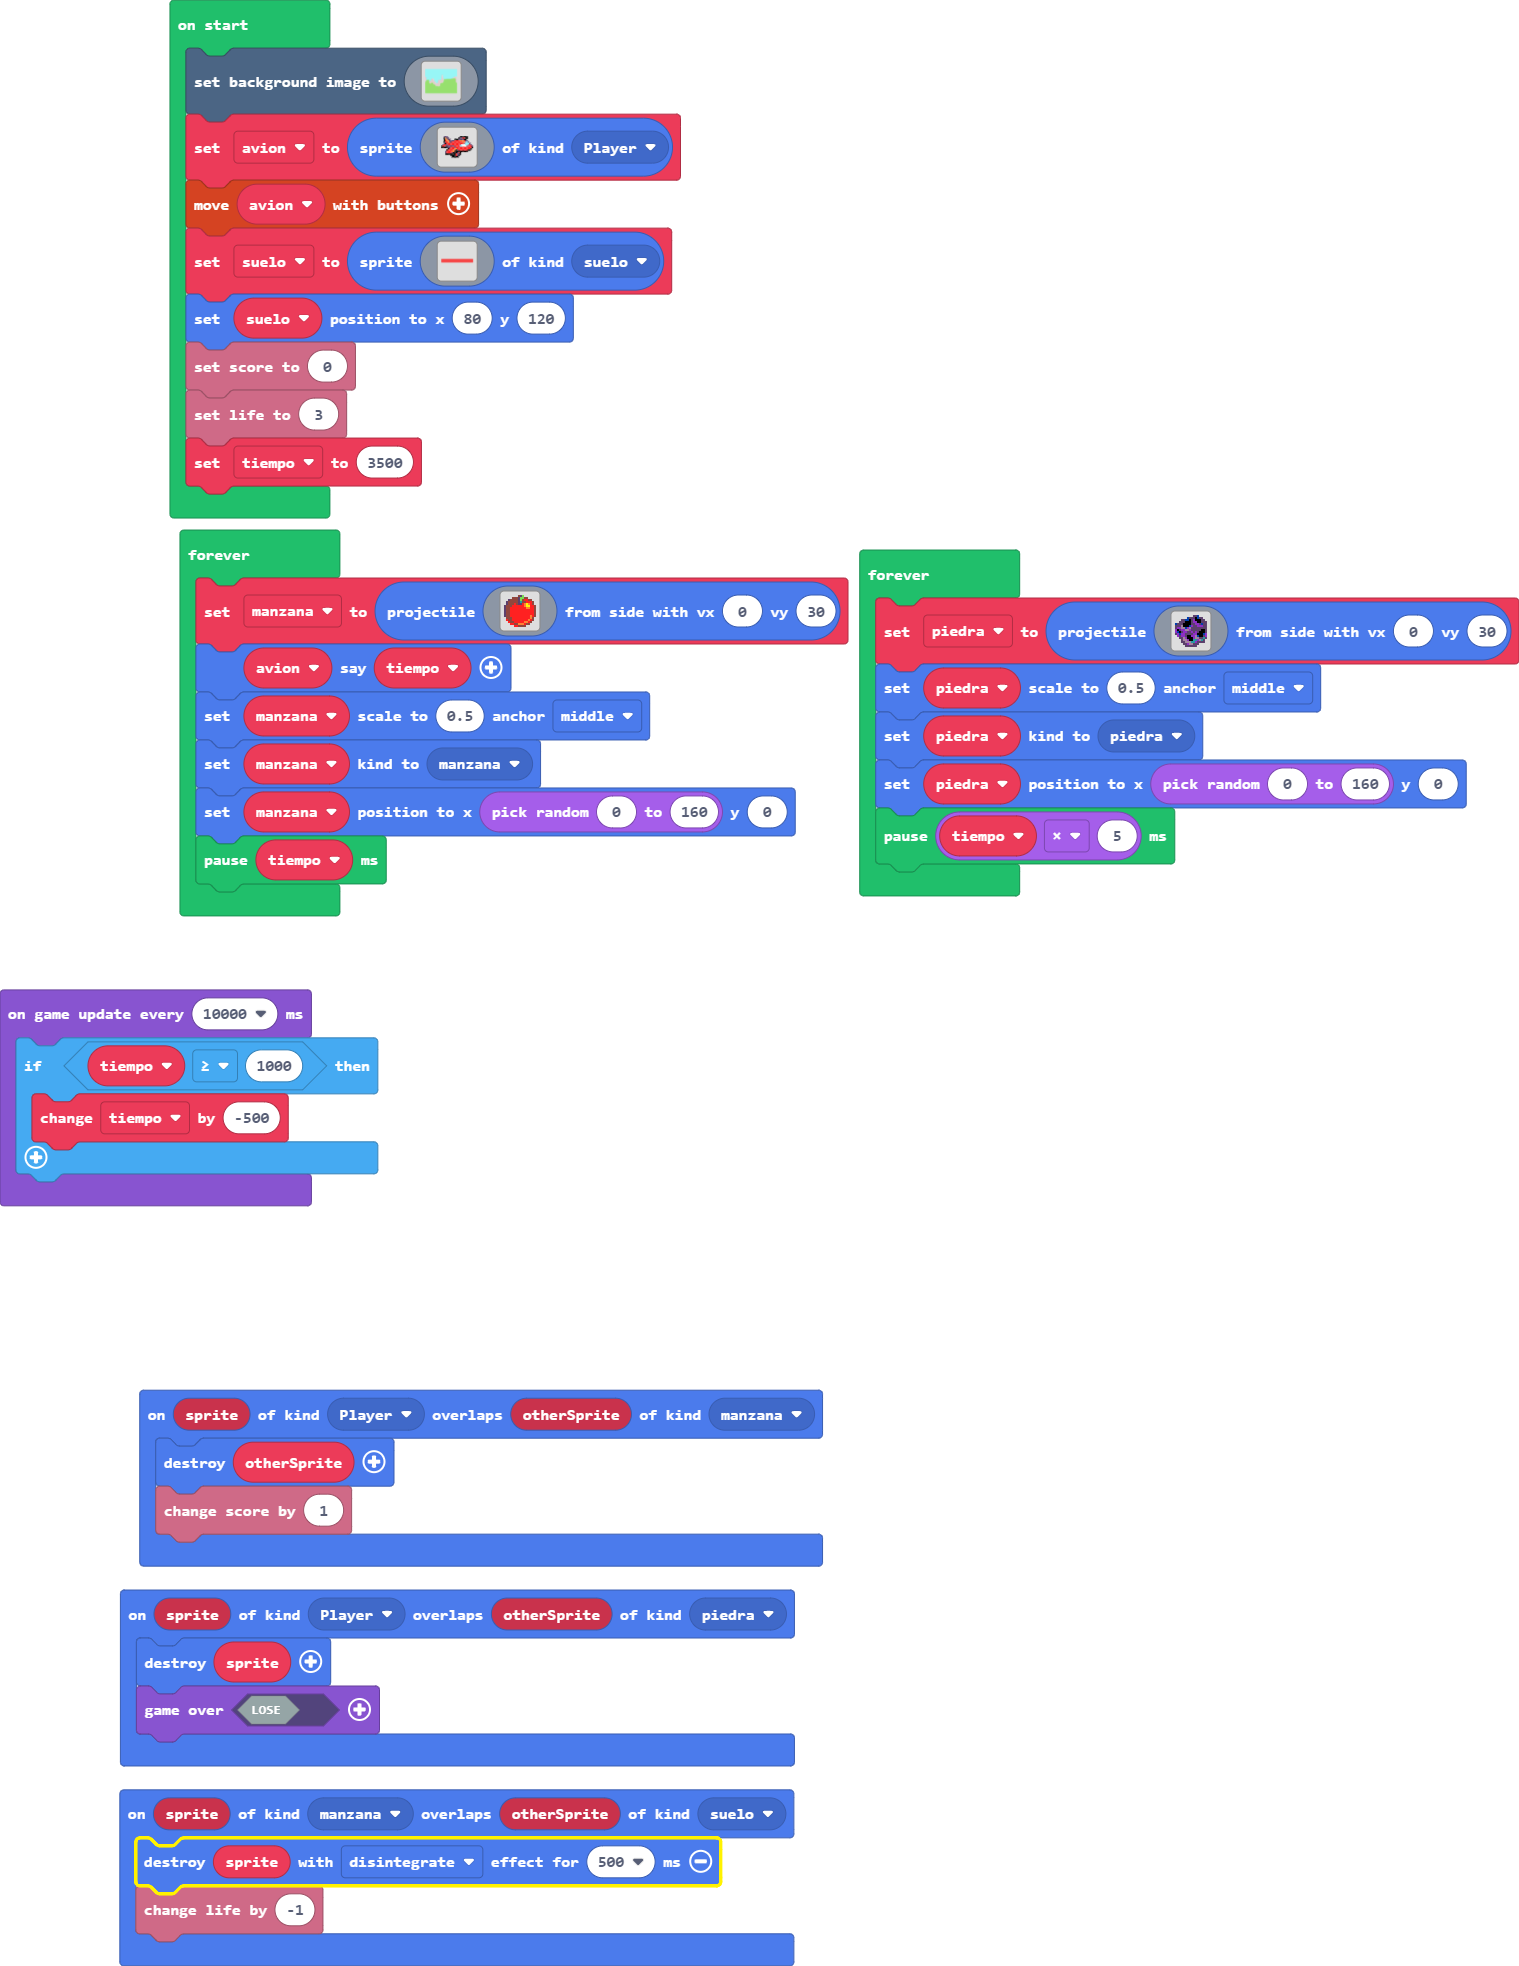
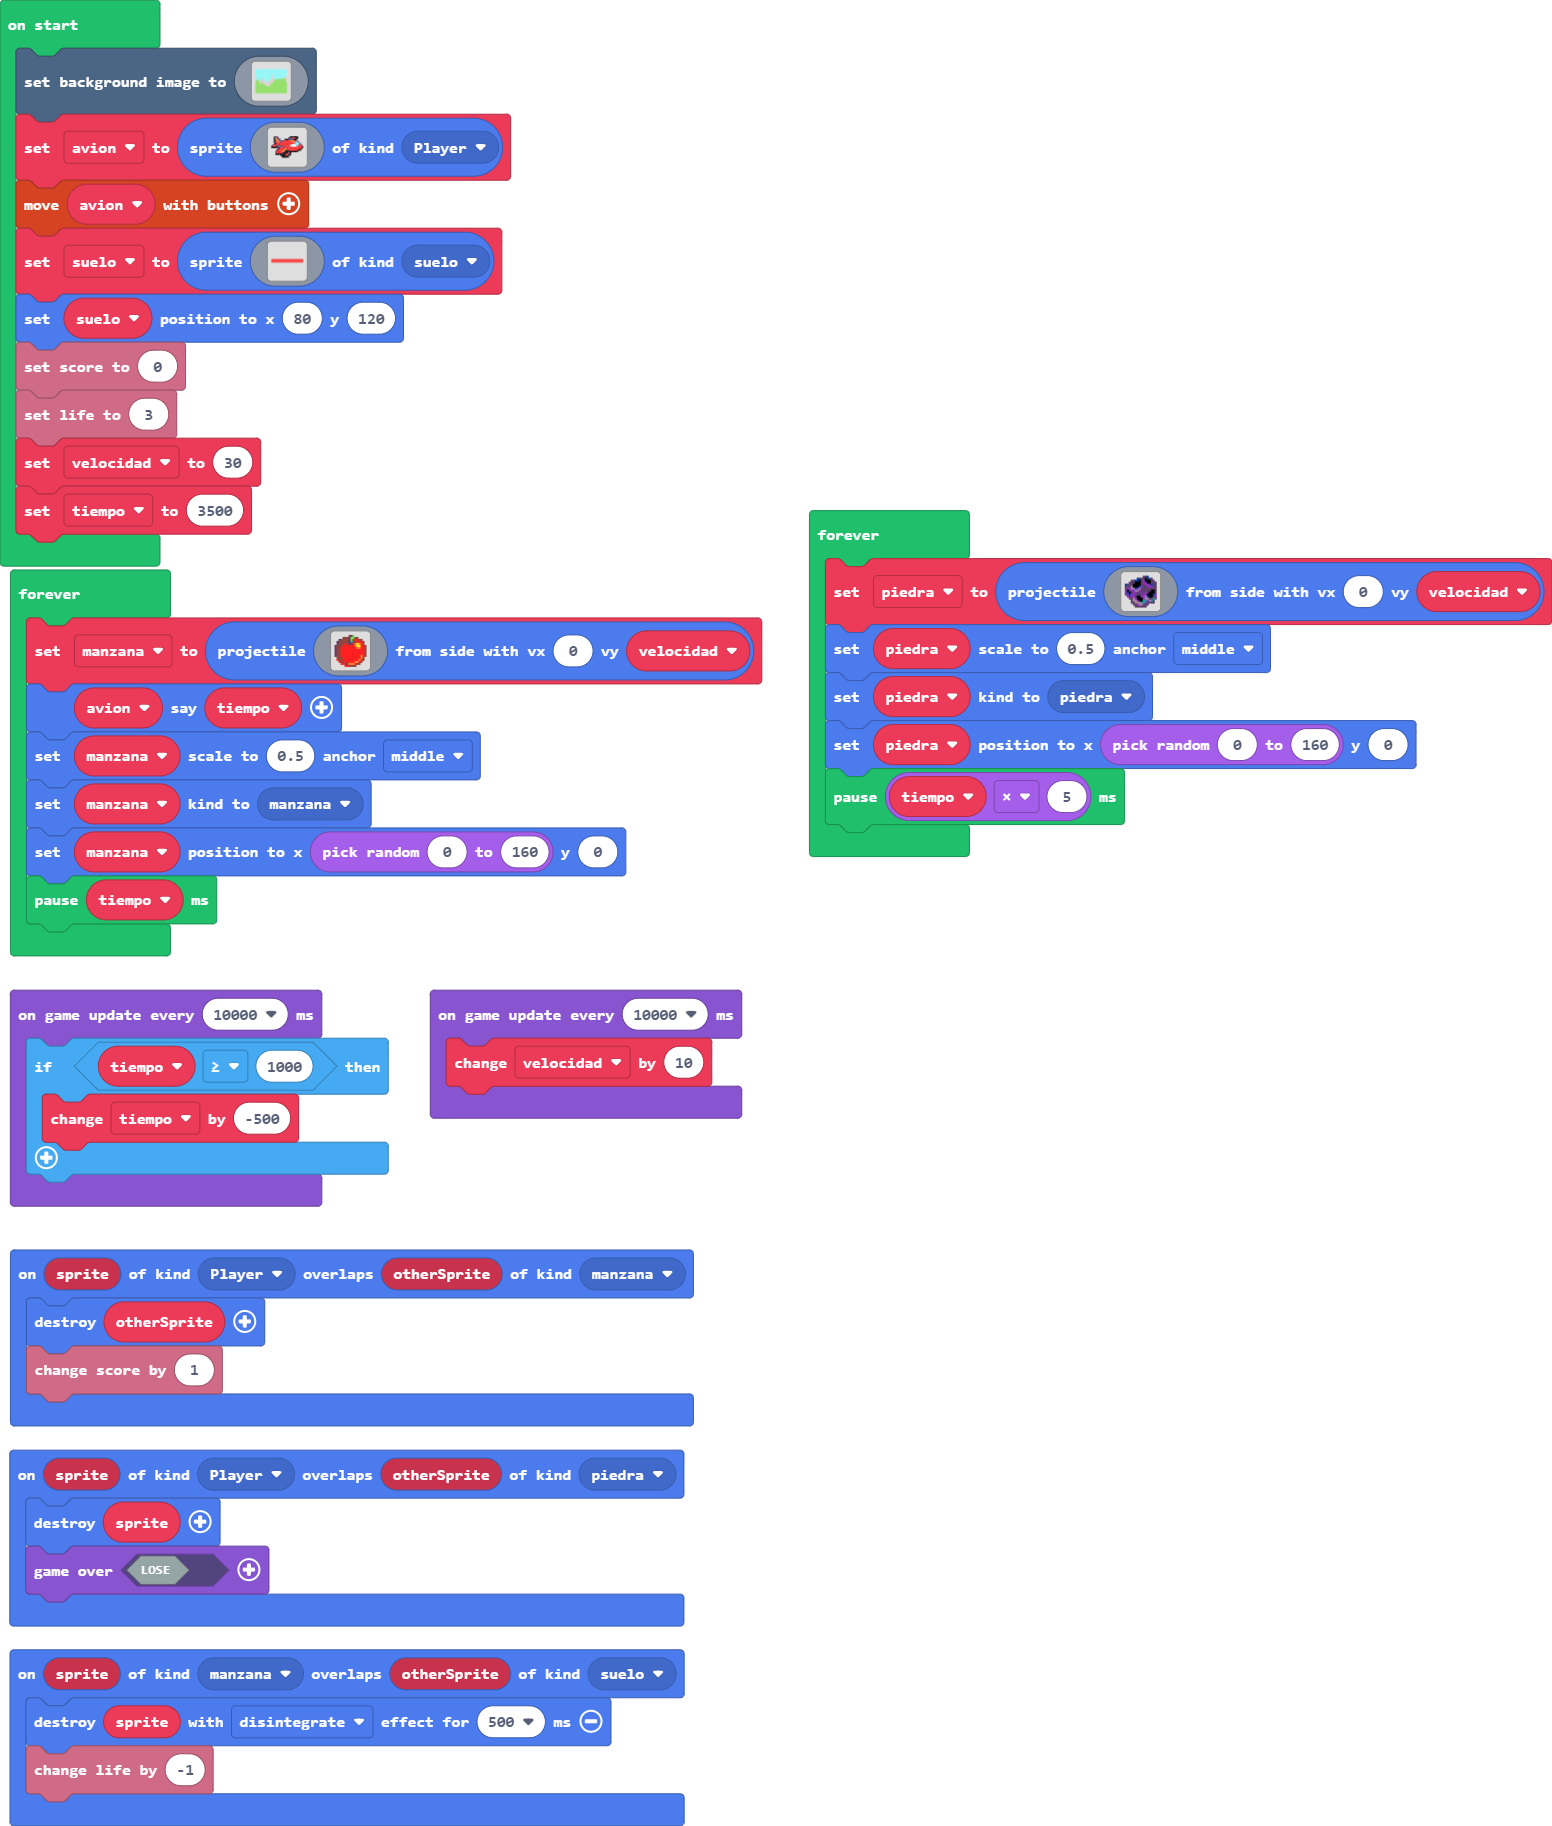
Update main.blocks, main.ts

diff --git a/main.ts b/main.ts
@@ -15,8 +15,8 @@ sprites.onOverlap(SpriteKind.Player, SpriteKind.manzana, function (sprite, other
     otherSprite.destroy()
     info.changeScoreBy(1)
 })
-let piedra: Sprite = null
 let manzana: Sprite = null
+let piedra: Sprite = null
 scene.setBackgroundImage(img`
     9999999999999999999999999999999999999999999999999999999999999999999999999999999999999999999999999999999999999999999999999999999999999999999999999999999999999999
     9999999999999999999999999999999999999999999999999999999999999999999999999999999999999999999999999999999999999999999999999999999999999999999999999999999999999999
@@ -179,32 +179,8 @@ let suelo = sprites.create(img`
 suelo.setPosition(80, 120)
 info.setScore(0)
 info.setLife(3)
+let velocidad = 30
 let tiempo = 3500
-forever(function () {
-    manzana = sprites.createProjectileFromSide(img`
-        . . . . . . . e c 7 . . . . . . 
-        . . . . e e e c 7 7 e e . . . . 
-        . . c e e e e c 7 e 2 2 e e . . 
-        . c e e e e e c 6 e e 2 2 2 e . 
-        . c e e e 2 e c c 2 4 5 4 2 e . 
-        c e e e 2 2 2 2 2 2 4 5 5 2 2 e 
-        c e e 2 2 2 2 2 2 2 2 4 4 2 2 e 
-        c e e 2 2 2 2 2 2 2 2 2 2 2 2 e 
-        c e e 2 2 2 2 2 2 2 2 2 2 2 2 e 
-        c e e 2 2 2 2 2 2 2 2 2 2 2 2 e 
-        c e e 2 2 2 2 2 2 2 2 2 2 4 2 e 
-        . e e e 2 2 2 2 2 2 2 2 2 4 e . 
-        . 2 e e 2 2 2 2 2 2 2 2 4 2 e . 
-        . . 2 e e 2 2 2 2 2 4 4 2 e . . 
-        . . . 2 2 e e 4 4 4 2 e e . . . 
-        . . . . . 2 2 e e e e . . . . . 
-        `, 0, 30)
-    avion.sayText(tiempo)
-    manzana.setScale(0.5, ScaleAnchor.Middle)
-    manzana.setKind(SpriteKind.manzana)
-    manzana.setPosition(randint(0, 160), 0)
-    pause(tiempo)
-})
 forever(function () {
     piedra = sprites.createProjectileFromSide(img`
         . . . . . . . . . c c 8 . . . . 
@@ -223,14 +199,42 @@ forever(function () {
         . . . c c b b b 6 6 a c c c c . 
         . . . . c c a b b c c c . . . . 
         . . . . . c c c c c c . . . . . 
-        `, 0, 30)
+        `, 0, velocidad)
     piedra.setScale(0.5, ScaleAnchor.Middle)
     piedra.setKind(SpriteKind.piedra)
     piedra.setPosition(randint(0, 160), 0)
     pause(tiempo * 5)
 })
+forever(function () {
+    manzana = sprites.createProjectileFromSide(img`
+        . . . . . . . e c 7 . . . . . . 
+        . . . . e e e c 7 7 e e . . . . 
+        . . c e e e e c 7 e 2 2 e e . . 
+        . c e e e e e c 6 e e 2 2 2 e . 
+        . c e e e 2 e c c 2 4 5 4 2 e . 
+        c e e e 2 2 2 2 2 2 4 5 5 2 2 e 
+        c e e 2 2 2 2 2 2 2 2 4 4 2 2 e 
+        c e e 2 2 2 2 2 2 2 2 2 2 2 2 e 
+        c e e 2 2 2 2 2 2 2 2 2 2 2 2 e 
+        c e e 2 2 2 2 2 2 2 2 2 2 2 2 e 
+        c e e 2 2 2 2 2 2 2 2 2 2 4 2 e 
+        . e e e 2 2 2 2 2 2 2 2 2 4 e . 
+        . 2 e e 2 2 2 2 2 2 2 2 4 2 e . 
+        . . 2 e e 2 2 2 2 2 4 4 2 e . . 
+        . . . 2 2 e e 4 4 4 2 e e . . . 
+        . . . . . 2 2 e e e e . . . . . 
+        `, 0, velocidad)
+    avion.sayText(tiempo)
+    manzana.setScale(0.5, ScaleAnchor.Middle)
+    manzana.setKind(SpriteKind.manzana)
+    manzana.setPosition(randint(0, 160), 0)
+    pause(tiempo)
+})
 game.onUpdateInterval(10000, function () {
     if (tiempo >= 1000) {
         tiempo += -500
     }
+})
+game.onUpdateInterval(10000, function () {
+    velocidad += 10
 })
